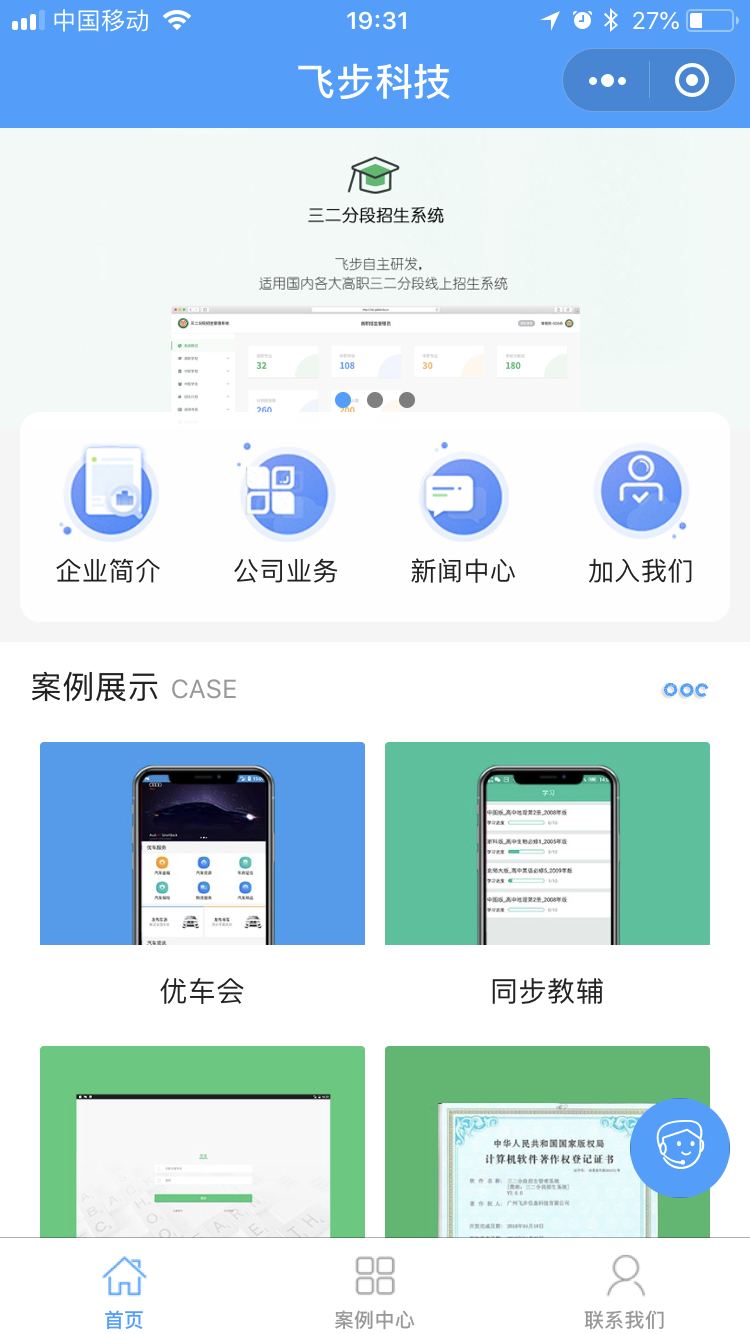
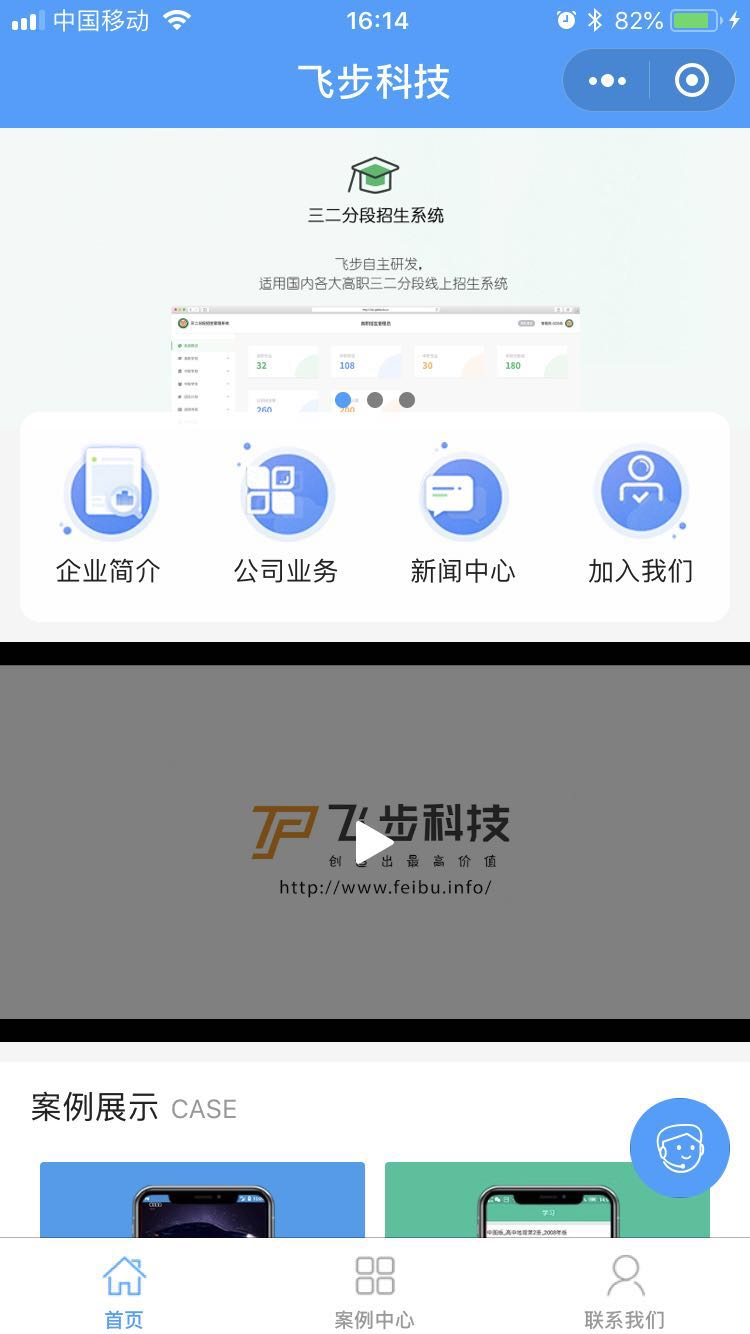
git-svn-id: https://39.108.144.9:8443/svn/feibu@29 20679f60-c748-6341-95ba-2afb75e84ee6

diff --git a/3.0.0/pages/website/index.vue b/3.0.0/pages/website/index.vue
@@ -24,6 +24,10 @@
 							<td>支持</td>
 						</tr>
 						<tr>
+							<td>宣传视频</td>
+							<td>支持</td>
+						</tr>
+						<tr>
 							<td>焦点轮播图</td>
 							<td>支持</td>
 						</tr>
